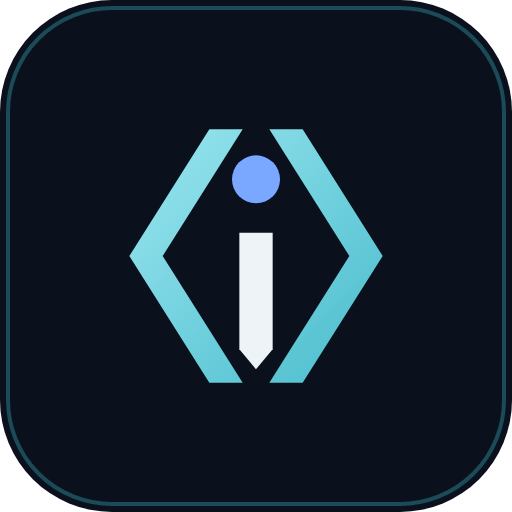
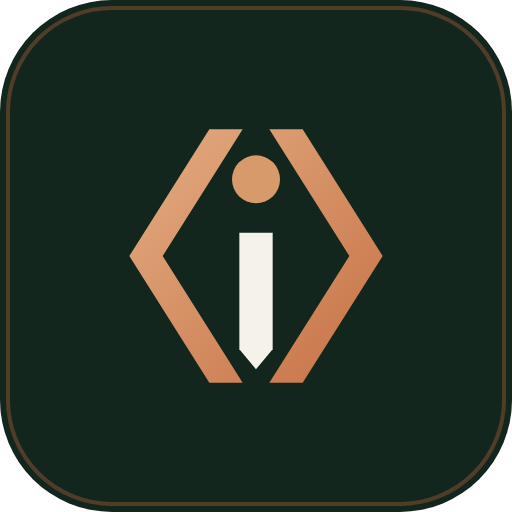
Try the ivory, forest and copper palette
Light 'senior craft, human touch' direction: ivory backgrounds, forest-green
text and buttons, copper accents, softer sage 3D forms with a stronger page
veil (--scene-veil), and matching artwork, logo, icons and share images.

diff --git a/src/design/tokens.css b/src/design/tokens.css
@@ -10,40 +10,40 @@
  * canvas-2 and surface. accent is decorative only (large type, rules, art).
  */
 @theme {
-  /* Deep Ocean & Signal Teal ("trusted engineering partner"). Other tested palettes are listed in docs/DESIGN-SYSTEM.md. */
-  --color-canvas: #0a111c; /* page background, warm black */
-  --color-canvas-2: #0f1826; /* alternate band */
-  --color-surface: #131e2e; /* cards and panels */
-  --color-surface-2: #1a2638; /* hover / raised */
-  --color-surface-3: #223047; /* pressed / deepest tone */
+  /* Ivory, Forest & Copper ("senior craft, human touch"). Other tested palettes are listed in docs/DESIGN-SYSTEM.md. */
+  --color-canvas: #f5f2ea; /* page background, warm black */
+  --color-canvas-2: #ebe6da; /* alternate band */
+  --color-surface: #fbf9f4; /* cards and panels */
+  --color-surface-2: #efebe1; /* hover / raised */
+  --color-surface-3: #e0dace; /* pressed / deepest tone */
 
   /* Deepest tone: media slots, cover art, code blocks */
-  --color-espresso: #060b13;
-  --color-espresso-2: #0c1420;
-  --color-on-espresso: #eef3f8; /* 17:1 on espresso */
-  --color-on-espresso-muted: #b4c0cf; /* 10:1 on espresso */
-  --color-gold: #5fd4e3;
+  --color-espresso: #12261e;
+  --color-espresso-2: #1a3329;
+  --color-on-espresso: #f5f2ea; /* 17:1 on espresso */
+  --color-on-espresso-muted: #c5d0c9; /* 10:1 on espresso */
+  --color-gold: #d79a6b;
 
   /* Restrained accents */
-  --color-accent: #3fb6c8; /* antique gold: decorative, rules, large type */
-  --color-accent-strong: #5fd4e3; /* teal: button fill */
-  --color-accent-deep: #a5ecf4; /* button hover */
-  --color-on-accent: #06121a; /* text on teal buttons */
-  --color-accent-text: #6fd8e6; /* gold text, 9:1 */
-  --color-highlight: #7aa7ff; /* eyebrows, links, icons, 9:1 */
-  --color-highlight-deep: #a9c4ff;
+  --color-accent: #2f6b55; /* antique gold: decorative, rules, large type */
+  --color-accent-strong: #1f4d3d; /* forest: button fill */
+  --color-accent-deep: #143528; /* button hover */
+  --color-on-accent: #ffffff; /* text on forest buttons */
+  --color-accent-text: #9c4a22; /* gold text, 9:1 */
+  --color-highlight: #9c4a22; /* eyebrows, links, icons, 9:1 */
+  --color-highlight-deep: #7a3a1a;
 
   /* Text */
-  --color-fg: #eef3f8; /* warm ivory, 14:1 */
-  --color-fg-muted: #b4c0cf; /* 9:1 */
-  --color-fg-subtle: #8d9bae; /* 6.1:1 */
+  --color-fg: #14261f; /* warm ivory, 14:1 */
+  --color-fg-muted: #3f5249; /* 9:1 */
+  --color-fg-subtle: #4f6058; /* 6.1:1 */
 
-  --color-line: rgb(111 180 220 / 0.14);
-  --color-line-strong: rgb(111 180 220 / 0.28);
+  --color-line: rgb(20 38 31 / 0.13);
+  --color-line-strong: rgb(20 38 31 / 0.26);
 
-  --color-success: #79d197;
-  --color-warning: #e3b35a;
-  --color-danger: #f08a7a;
+  --color-success: #1f7a4d;
+  --color-warning: #8a5a00;
+  --color-danger: #b3261e;
 
   /* Typography */
   --font-sans: var(--font-inter), ui-sans-serif, system-ui, "Segoe UI", Roboto, sans-serif;
@@ -107,39 +107,40 @@
 :root {
   --intro-count: 1100ms; /* homepage intro counter */
   --intro-hold: 1300ms; /* when the intro curtain starts to fade */
-  color-scheme: dark;
-  --scene-ceramic: #dfe8f2; /* main sculpture */
-  --scene-bronze: #5fb8c9; /* metal rings */
-  --scene-coffee: #1a2a40; /* dark forms */
-  --scene-gold: #6fe0ee; /* thread and dust */
-  --scene-light-key: #e6f4ff;
-  --scene-light-fill: #3a6fa8;
-  --scene-fog: #0a111c; /* match --color-canvas so depth fades into the page */
-  --scene-tone-1: #6fe0ee; /* homepage chapter colour grades, see journey/chapters.ts */
-  --scene-tone-2: #7aa7ff;
-  --scene-tone-3: #4fd1a5;
-  --scene-tone-4: #a5b8ff;
+  color-scheme: light;
+  --scene-ceramic: #f3efe6; /* main sculpture */
+  --scene-bronze: #c26a3d; /* metal rings */
+  --scene-coffee: #b7c6b9; /* dark forms */
+  --scene-gold: #c26a3d; /* thread and dust */
+  --scene-light-key: #fffaf0;
+  --scene-light-fill: #cfd8cf;
+  --scene-fog: #f5f2ea; /* match --color-canvas so depth fades into the page */
+  --scene-veil: 0.24; /* how much page colour washes over the homepage 3D (0 to 1) */
+  --scene-tone-1: #c26a3d; /* homepage chapter colour grades, see journey/chapters.ts */
+  --scene-tone-2: #2f6b55;
+  --scene-tone-3: #d79a6b;
+  --scene-tone-4: #6f8f7a;
 
   /* Illustrations and generated cover art (src/components/art, capabilities explorer) */
-  --art-hue: 188deg; /* covers vary from this hue to +26 degrees */
-  --art-glow: #8fe3ee;
-  --art-line: #4fb3c4;
-  --art-line-deep: #1f5f7a;
-  --art-fade: #2f6f9c;
-  --art-pale: #cfe6f2;
-  --art-core: #dff3f8;
-  --art-text: #eef3f8;
-  --art-label: #a9bccd;
-  --art-muted: #6f86a0;
-  --art-ink: #0f1a2a;
-  --art-ink-deep: #0a121e;
-  --art-ink-raised: #16243a;
-  --art-ring: rgb(95 212 227 / 0.2);
-  --art-shadow: rgb(0 0 0 / 0.5);
+  --art-hue: 14deg; /* covers vary from this hue to +26 degrees */
+  --art-glow: #e8b48a;
+  --art-line: #c98a5e;
+  --art-line-deep: #7a3f1f;
+  --art-fade: #9c4a22;
+  --art-pale: #f1dcc6;
+  --art-core: #fbeee0;
+  --art-text: #f5f2ea;
+  --art-label: #cdbfa8;
+  --art-muted: #8a9a8f;
+  --art-ink: #163028;
+  --art-ink-deep: #10241d;
+  --art-ink-raised: #1d3a30;
+  --art-ring: rgb(31 77 61 / 0.18);
+  --art-shadow: rgb(20 38 31 / 0.28);
 
   /* Glass panels floating over the 3D scene */
-  --panel-from: rgb(22 34 52 / 0.72);
-  --panel-to: rgb(10 17 28 / 0.8);
-  --panel-highlight: rgb(200 230 255 / 0.06);
-  --panel-shadow: rgb(0 0 0 / 0.55);
+  --panel-from: rgb(251 249 244 / 0.8);
+  --panel-to: rgb(239 235 225 / 0.84);
+  --panel-highlight: rgb(255 255 255 / 0.6);
+  --panel-shadow: rgb(20 38 31 / 0.22);
 }

diff --git a/src/lib/og.tsx b/src/lib/og.tsx
@@ -32,35 +32,35 @@ export async function renderOgImage({ eyebrow, title, subtitle }: { eyebrow: str
           flexDirection: "column",
           justifyContent: "space-between",
           padding: "64px 72px",
-          background: "radial-gradient(circle at 82% 38%, #1A3550 0%, #0F1D2E 32%, #0A111C 62%)",
-          color: "#EEF3F8",
+          background: "radial-gradient(circle at 82% 38%, #2A5A47 0%, #18372B 32%, #12261E 62%)",
+          color: "#F5F2EA",
           fontFamily: "Inter",
           position: "relative",
         }}
       >
         <svg width="520" height="520" viewBox="-200 -200 400 400" style={{ position: "absolute", right: -40, top: 40, opacity: 0.9 }}>
-          <circle r="60" fill="#8FE3EE" fillOpacity="0.35" />
+          <circle r="60" fill="#E8B48A" fillOpacity="0.35" />
           <circle r="16" fill="#ffffff" />
-          <ellipse rx="150" ry="44" transform="rotate(-18)" fill="none" stroke="#CFE6F2" strokeOpacity="0.8" strokeWidth="2" />
-          <ellipse rx="128" ry="36" transform="rotate(32)" fill="none" stroke="#8FE3EE" strokeOpacity="0.6" strokeWidth="2" />
-          <ellipse rx="176" ry="58" transform="rotate(76)" fill="none" stroke="#CFE6F2" strokeOpacity="0.35" strokeWidth="2" />
+          <ellipse rx="150" ry="44" transform="rotate(-18)" fill="none" stroke="#F1DCC6" strokeOpacity="0.8" strokeWidth="2" />
+          <ellipse rx="128" ry="36" transform="rotate(32)" fill="none" stroke="#E8B48A" strokeOpacity="0.6" strokeWidth="2" />
+          <ellipse rx="176" ry="58" transform="rotate(76)" fill="none" stroke="#F1DCC6" strokeOpacity="0.35" strokeWidth="2" />
         </svg>
         <div style={{ display: "flex", alignItems: "center", gap: 16 }}>
           <svg width="56" height="56" viewBox="0 0 48 48">
-            <path fill="#5FD4E3" d="M17 5h5L10 24l12 19h-5L5 24z" />
-            <path fill="#5FD4E3" d="M31 5h-5l12 19-12 19h5l12-19z" />
-            <path fill="#EEF3F8" d="M21.5 20.5h5V38l-2.5 3-2.5-3z" />
-            <circle fill="#8FE3EE" cx="24" cy="12.5" r="3.6" />
+            <path fill="#D79A6B" d="M17 5h5L10 24l12 19h-5L5 24z" />
+            <path fill="#D79A6B" d="M31 5h-5l12 19-12 19h5l12-19z" />
+            <path fill="#F5F2EA" d="M21.5 20.5h5V38l-2.5 3-2.5-3z" />
+            <circle fill="#E8B48A" cx="24" cy="12.5" r="3.6" />
           </svg>
           <div style={{ display: "flex", flexDirection: "column" }}>
             <span style={{ fontFamily: "Sora", fontSize: 28, letterSpacing: 5 }}>INFERRA</span>
-            <span style={{ fontFamily: "Mono", fontSize: 12, letterSpacing: 7, color: "#B4C0CF" }}>SOFTWARE</span>
+            <span style={{ fontFamily: "Mono", fontSize: 12, letterSpacing: 7, color: "#C5D0C9" }}>SOFTWARE</span>
           </div>
         </div>
         <div style={{ display: "flex", flexDirection: "column", maxWidth: 820 }}>
-          <span style={{ fontFamily: "Mono", fontSize: 20, letterSpacing: 4, color: "#8FE3EE", textTransform: "uppercase" }}>{eyebrow}</span>
+          <span style={{ fontFamily: "Mono", fontSize: 20, letterSpacing: 4, color: "#E8B48A", textTransform: "uppercase" }}>{eyebrow}</span>
           <span style={{ fontFamily: "Sora", fontSize: title.length > 60 ? 54 : 64, lineHeight: 1.08, marginTop: 20, letterSpacing: -1.5 }}>{title}</span>
-          {subtitle && <span style={{ fontSize: 26, color: "#B4C0CF", marginTop: 22, lineHeight: 1.4 }}>{subtitle}</span>}
+          {subtitle && <span style={{ fontSize: 26, color: "#C5D0C9", marginTop: 22, lineHeight: 1.4 }}>{subtitle}</span>}
         </div>
       </div>
     ),

diff --git a/src/app/global-error.tsx b/src/app/global-error.tsx
@@ -6,15 +6,15 @@ import { siteConfig } from "@/config/site";
 export default function GlobalError({ reset }: { error: Error & { digest?: string }; reset: () => void }) {
   return (
     <html lang="en">
-      <body style={{ margin: 0, minHeight: "100vh", display: "grid", placeItems: "center", background: "#0A111C", color: "#EEF3F8", fontFamily: "system-ui, sans-serif" }}>
+      <body style={{ margin: 0, minHeight: "100vh", display: "grid", placeItems: "center", background: "#F5F2EA", color: "#14261F", fontFamily: "system-ui, sans-serif" }}>
         <main style={{ maxWidth: 520, padding: 24 }}>
-          <p style={{ color: "#6FD8E6", letterSpacing: "0.2em", fontSize: 12 }}>INFERRA SOFTWARE</p>
+          <p style={{ color: "#9C4A22", letterSpacing: "0.2em", fontSize: 12 }}>INFERRA SOFTWARE</p>
           <h1 style={{ fontSize: 32, lineHeight: 1.2 }}>Something went wrong.</h1>
-          <p style={{ color: "#B4C0CF", lineHeight: 1.6 }}>Please try again. You can also call us on {siteConfig.contact.phoneDisplay}.</p>
+          <p style={{ color: "#3F5249", lineHeight: 1.6 }}>Please try again. You can also call us on {siteConfig.contact.phoneDisplay}.</p>
           <button
             type="button"
             onClick={reset}
-            style={{ marginTop: 16, background: "#5FD4E3", color: "#06121A", border: 0, borderRadius: 999, padding: "12px 20px", fontWeight: 600, cursor: "pointer" }}
+            style={{ marginTop: 16, background: "#1F4D3D", color: "#FFFFFF", border: 0, borderRadius: 999, padding: "12px 20px", fontWeight: 600, cursor: "pointer" }}
           >
             Try again
           </button>

diff --git a/src/lib/enquiry/format.ts b/src/lib/enquiry/format.ts
@@ -64,9 +64,9 @@ export function enquiryHtml(e: Enquiry, id: string): string {
     .join("");
   const message = escapeHtml(e.message).replace(/\n/g, "<br>");
   return `<!doctype html><html><body style="font-family:Arial,Helvetica,sans-serif;font-size:14px;line-height:1.5">
-<h2 style="margin:0 0 12px">New enquiry <span style="color:#1F8A9E">${escapeHtml(id)}</span></h2>
+<h2 style="margin:0 0 12px">New enquiry <span style="color:#1F4D3D">${escapeHtml(id)}</span></h2>
 <table style="border-collapse:collapse">${rows}</table>
 <h3 style="margin:20px 0 8px">Message</h3>
-<div style="white-space:normal;border-left:3px solid #1F8A9E;padding-left:12px">${message}</div>
+<div style="white-space:normal;border-left:3px solid #1F4D3D;padding-left:12px">${message}</div>
 </body></html>`;
 }

diff --git a/src/components/scene/experience.tsx b/src/components/scene/experience.tsx
@@ -1,5 +1,6 @@
 "use client";
 
+import { readToken } from "@/design/motion";
 import { Canvas, useFrame, useThree } from "@react-three/fiber";
 import { useEffect, useMemo, useRef, useState } from "react";
 import { usePathname } from "next/navigation";
@@ -109,7 +110,7 @@ export default function Experience({ reduced, onVeil, onReady }: { reduced: bool
   }, [choreography, pathname]);
 
   useEffect(() => {
-    if (journey) onVeil(narrow ? 0.4 : 0.08);
+    if (journey) onVeil(narrow ? 0.4 : parseFloat(readToken("--scene-veil")) || 0.08);
   }, [journey, narrow, onVeil]);
 
   useEffect(() => {

diff --git a/src/app/manifest.ts b/src/app/manifest.ts
@@ -9,8 +9,8 @@ export default function manifest(): MetadataRoute.Manifest {
     description: messaging.positioning,
     start_url: "/",
     display: "standalone",
-    background_color: "#0A111C",
-    theme_color: "#0A111C",
+    background_color: "#F5F2EA",
+    theme_color: "#F5F2EA",
     icons: [
       { src: "/brand/inferra-app-icon-192.png", sizes: "192x192", type: "image/png" },
       { src: "/brand/inferra-app-icon-512.png", sizes: "512x512", type: "image/png" },

diff --git a/src/app/layout.tsx b/src/app/layout.tsx
@@ -68,8 +68,8 @@ export const metadata: Metadata = {
 };
 
 export const viewport: Viewport = {
-  themeColor: "#0A111C",
-  colorScheme: "dark",
+  themeColor: "#F5F2EA",
+  colorScheme: "light",
 };
 
 export default function RootLayout({ children }: LayoutProps<"/">) {

diff --git a/docs/DESIGN-SYSTEM.md b/docs/DESIGN-SYSTEM.md
@@ -1,8 +1,8 @@
 # Design system and 3D experience
 
-The site uses a dark, cinematic look ("Deep Ocean & Signal Teal", meant to read
-as a calm, precise, trusted engineering partner): deep navy backgrounds, cool
-white text, teal and blue accents, glass panels, a Fraunces serif
+The site uses a light, warm look ("Ivory, Forest & Copper", meant to read as
+senior craft with a human touch): ivory backgrounds, deep forest-green text and
+buttons, copper accents, frosted panels, a Fraunces serif
 for headings and Inter for body text. On the homepage, scrolling flies a camera
 along a glowing gold thread through ten chapters, one per section. Interior
 pages keep a single 3D sculpture that moves as you scroll.
@@ -18,6 +18,7 @@ pages keep a single 3D sculpture that moves as you scroll.
 | The 3D objects in each chapter | `src/components/scene/journey/sets.tsx` |
 | Where the sculpture sits on interior pages | `src/components/scene/poses.ts` |
 | Illustration and cover-art colours | `--art-*` variables in `src/design/tokens.css` |
+| How much the page washes over the homepage 3D | `--scene-veil` in `src/design/tokens.css` |
 | Intro curtain timing | `--intro-count` and `--intro-hold` in `src/design/tokens.css` |
 | Motion helpers that read the tokens | `src/design/motion.ts` |
 | Copy | `src/config/messaging.ts`, `src/content/*`, and the home section components |
@@ -25,7 +26,8 @@ pages keep a single 3D sculpture that moves as you scroll.
 Tailwind utilities are generated from the tokens, so `bg-canvas`, `text-fg`,
 `text-highlight`, `bg-espresso`, `py-section` and `ease-editorial` all follow
 any change you make there. Every text colour passes WCAG 2.2 AA on the dark
-backgrounds; `accent` is decorative only.
+backgrounds; `accent` is decorative only. The previous navy and teal version is
+on `main` at commit f863342.
 
 To try another palette, replace the colour values in the `@theme` block and the
 `--scene-*` and `--panel-*` values in `:root`. Four tested alternatives (Forest
@@ -101,11 +103,11 @@ commit ed8123d.
 
 - **Team photos**: abstract avatars are shown until `photo` is set in
   `src/content/team.ts`.
-- **Case study and article covers**: generated navy-and-teal art (`CoverArt`).
+- **Case study and article covers**: generated forest-and-copper art (`CoverArt`).
   Pass real imagery through `MediaSlot` when available.
 - **Brand files**: the logo, favicon, app icons and lockups in `public/brand`
-  are generated in navy and teal by `npm run brand` and `npm run brand:png`.
+  are generated in forest and copper by `npm run brand` and `npm run brand:png`.
   Their colours are set at the top of `scripts/generate-brand-assets.mjs`,
   separately from tokens.css because they are standalone files.
 - **Social preview images** (`src/lib/og.tsx`) and the enquiry email use fixed
-  navy and teal values, because they render outside the site's CSS.
+  forest and copper values, because they render outside the site's CSS.
